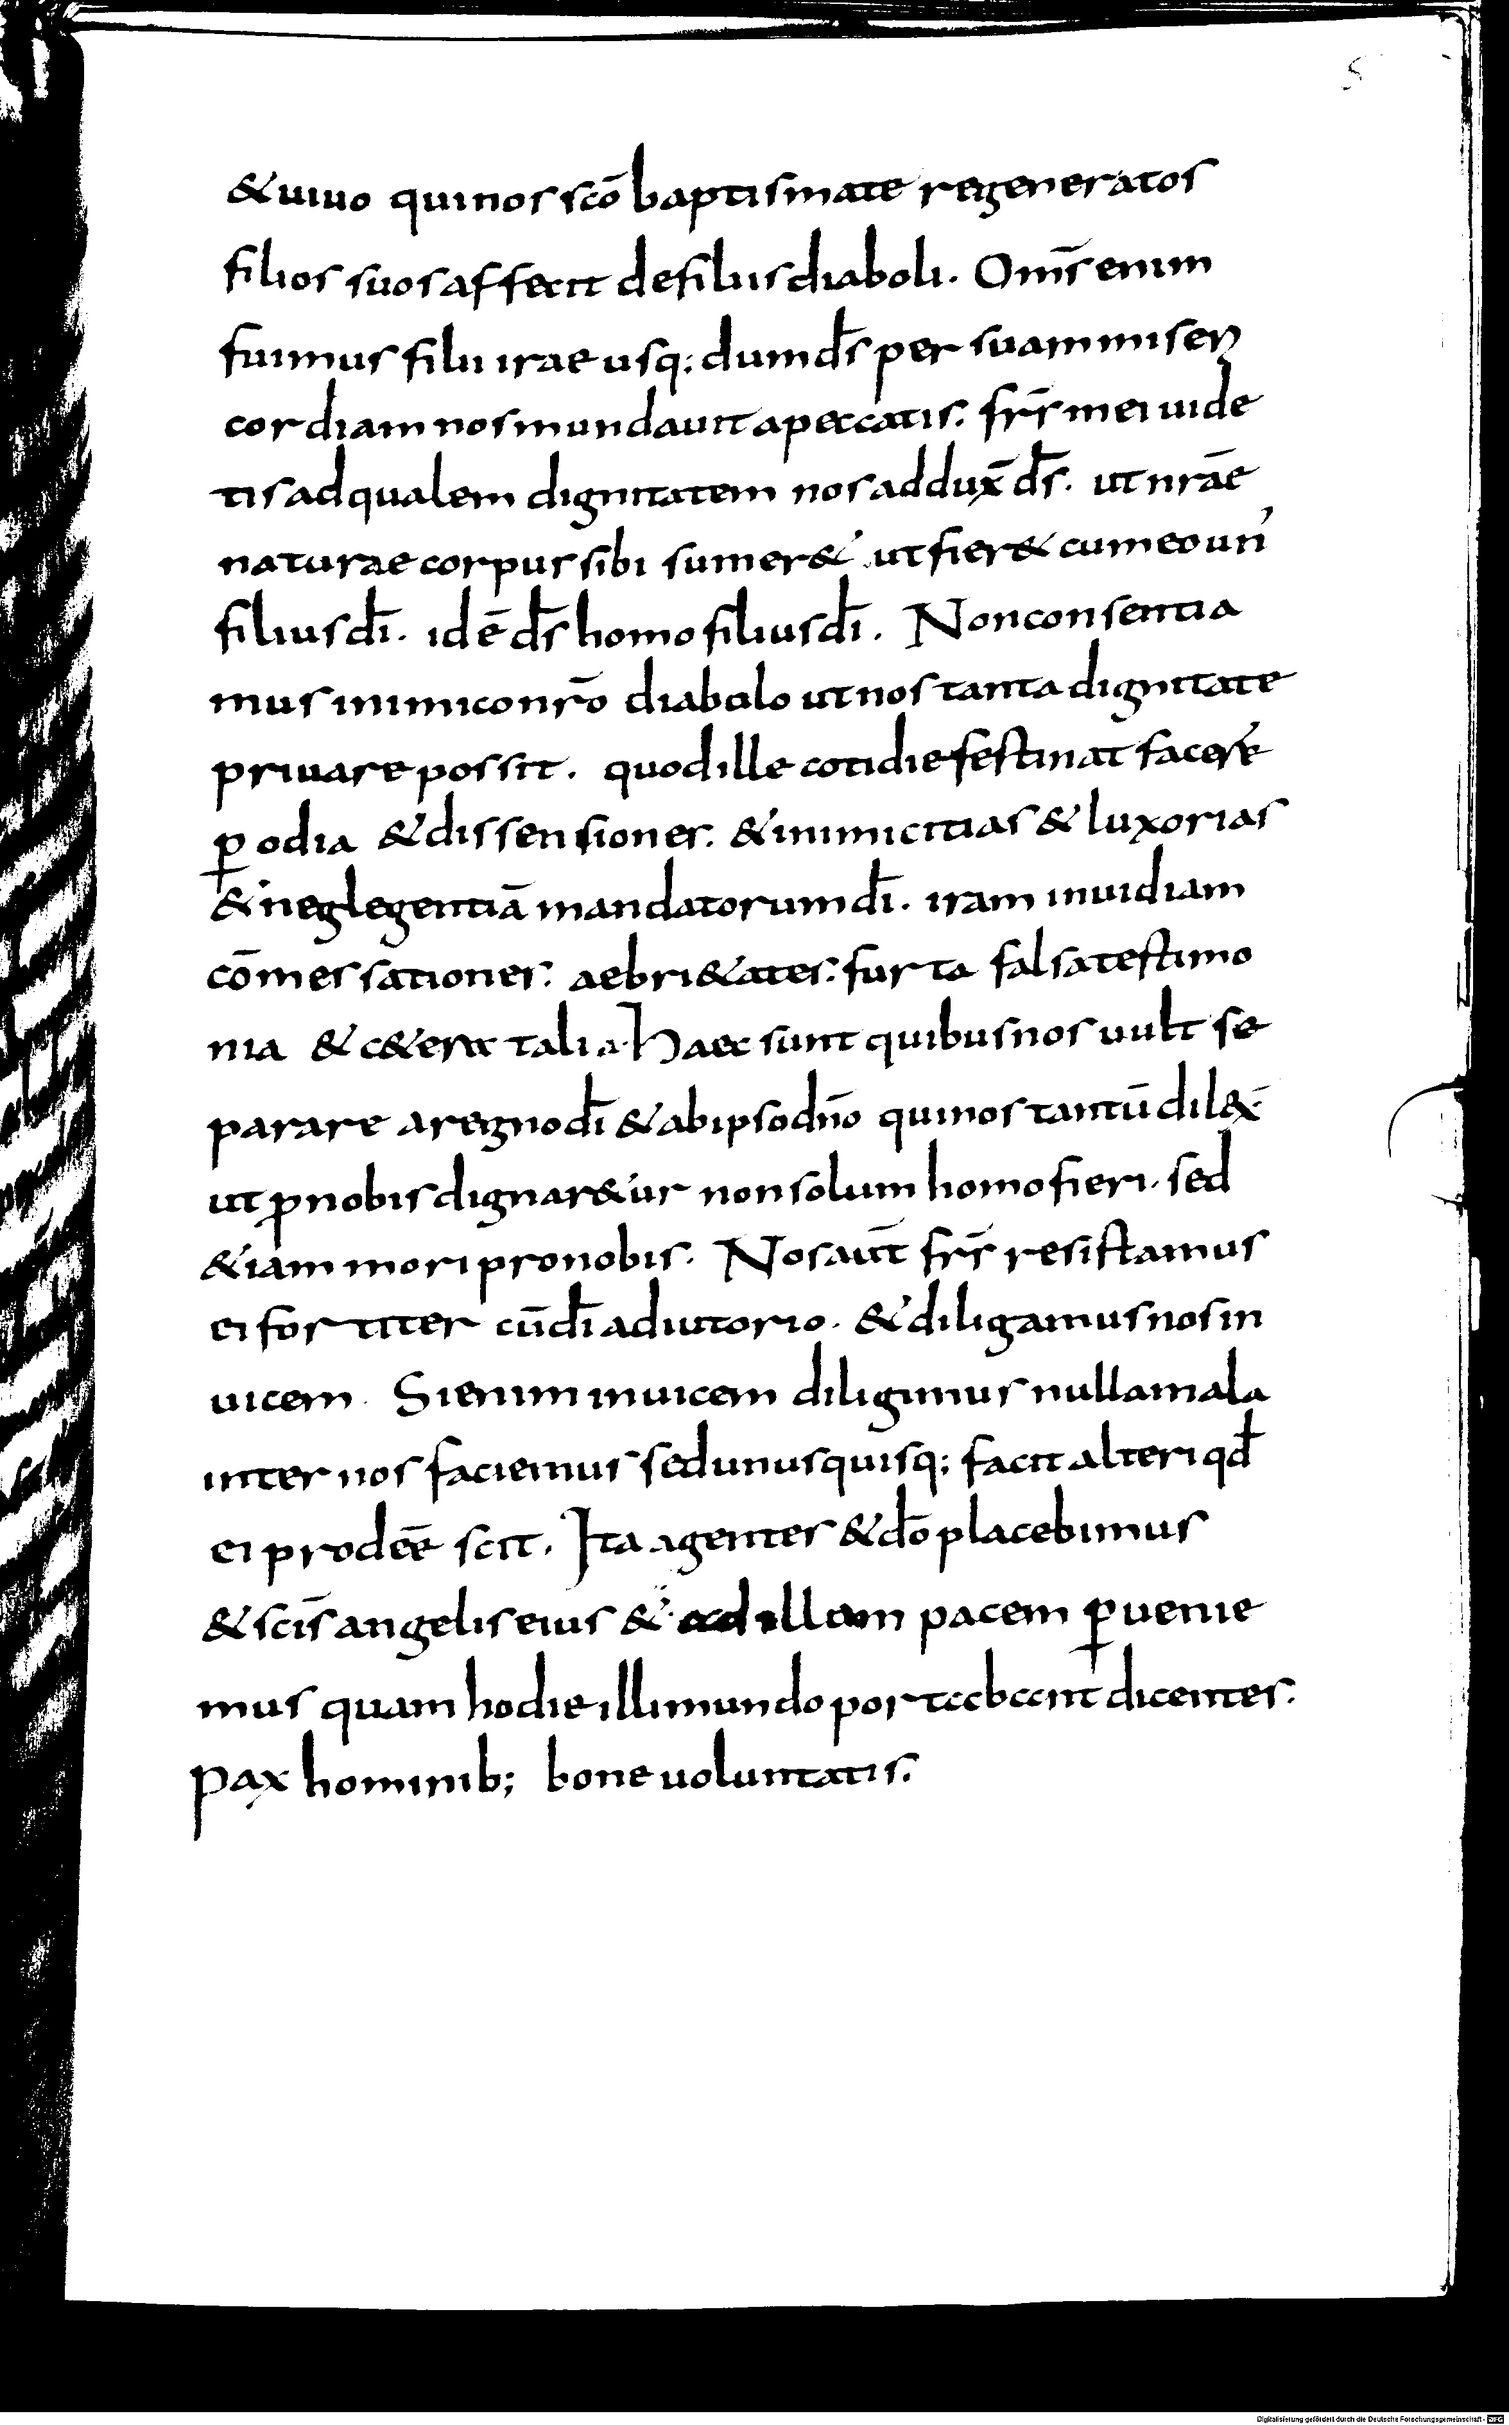
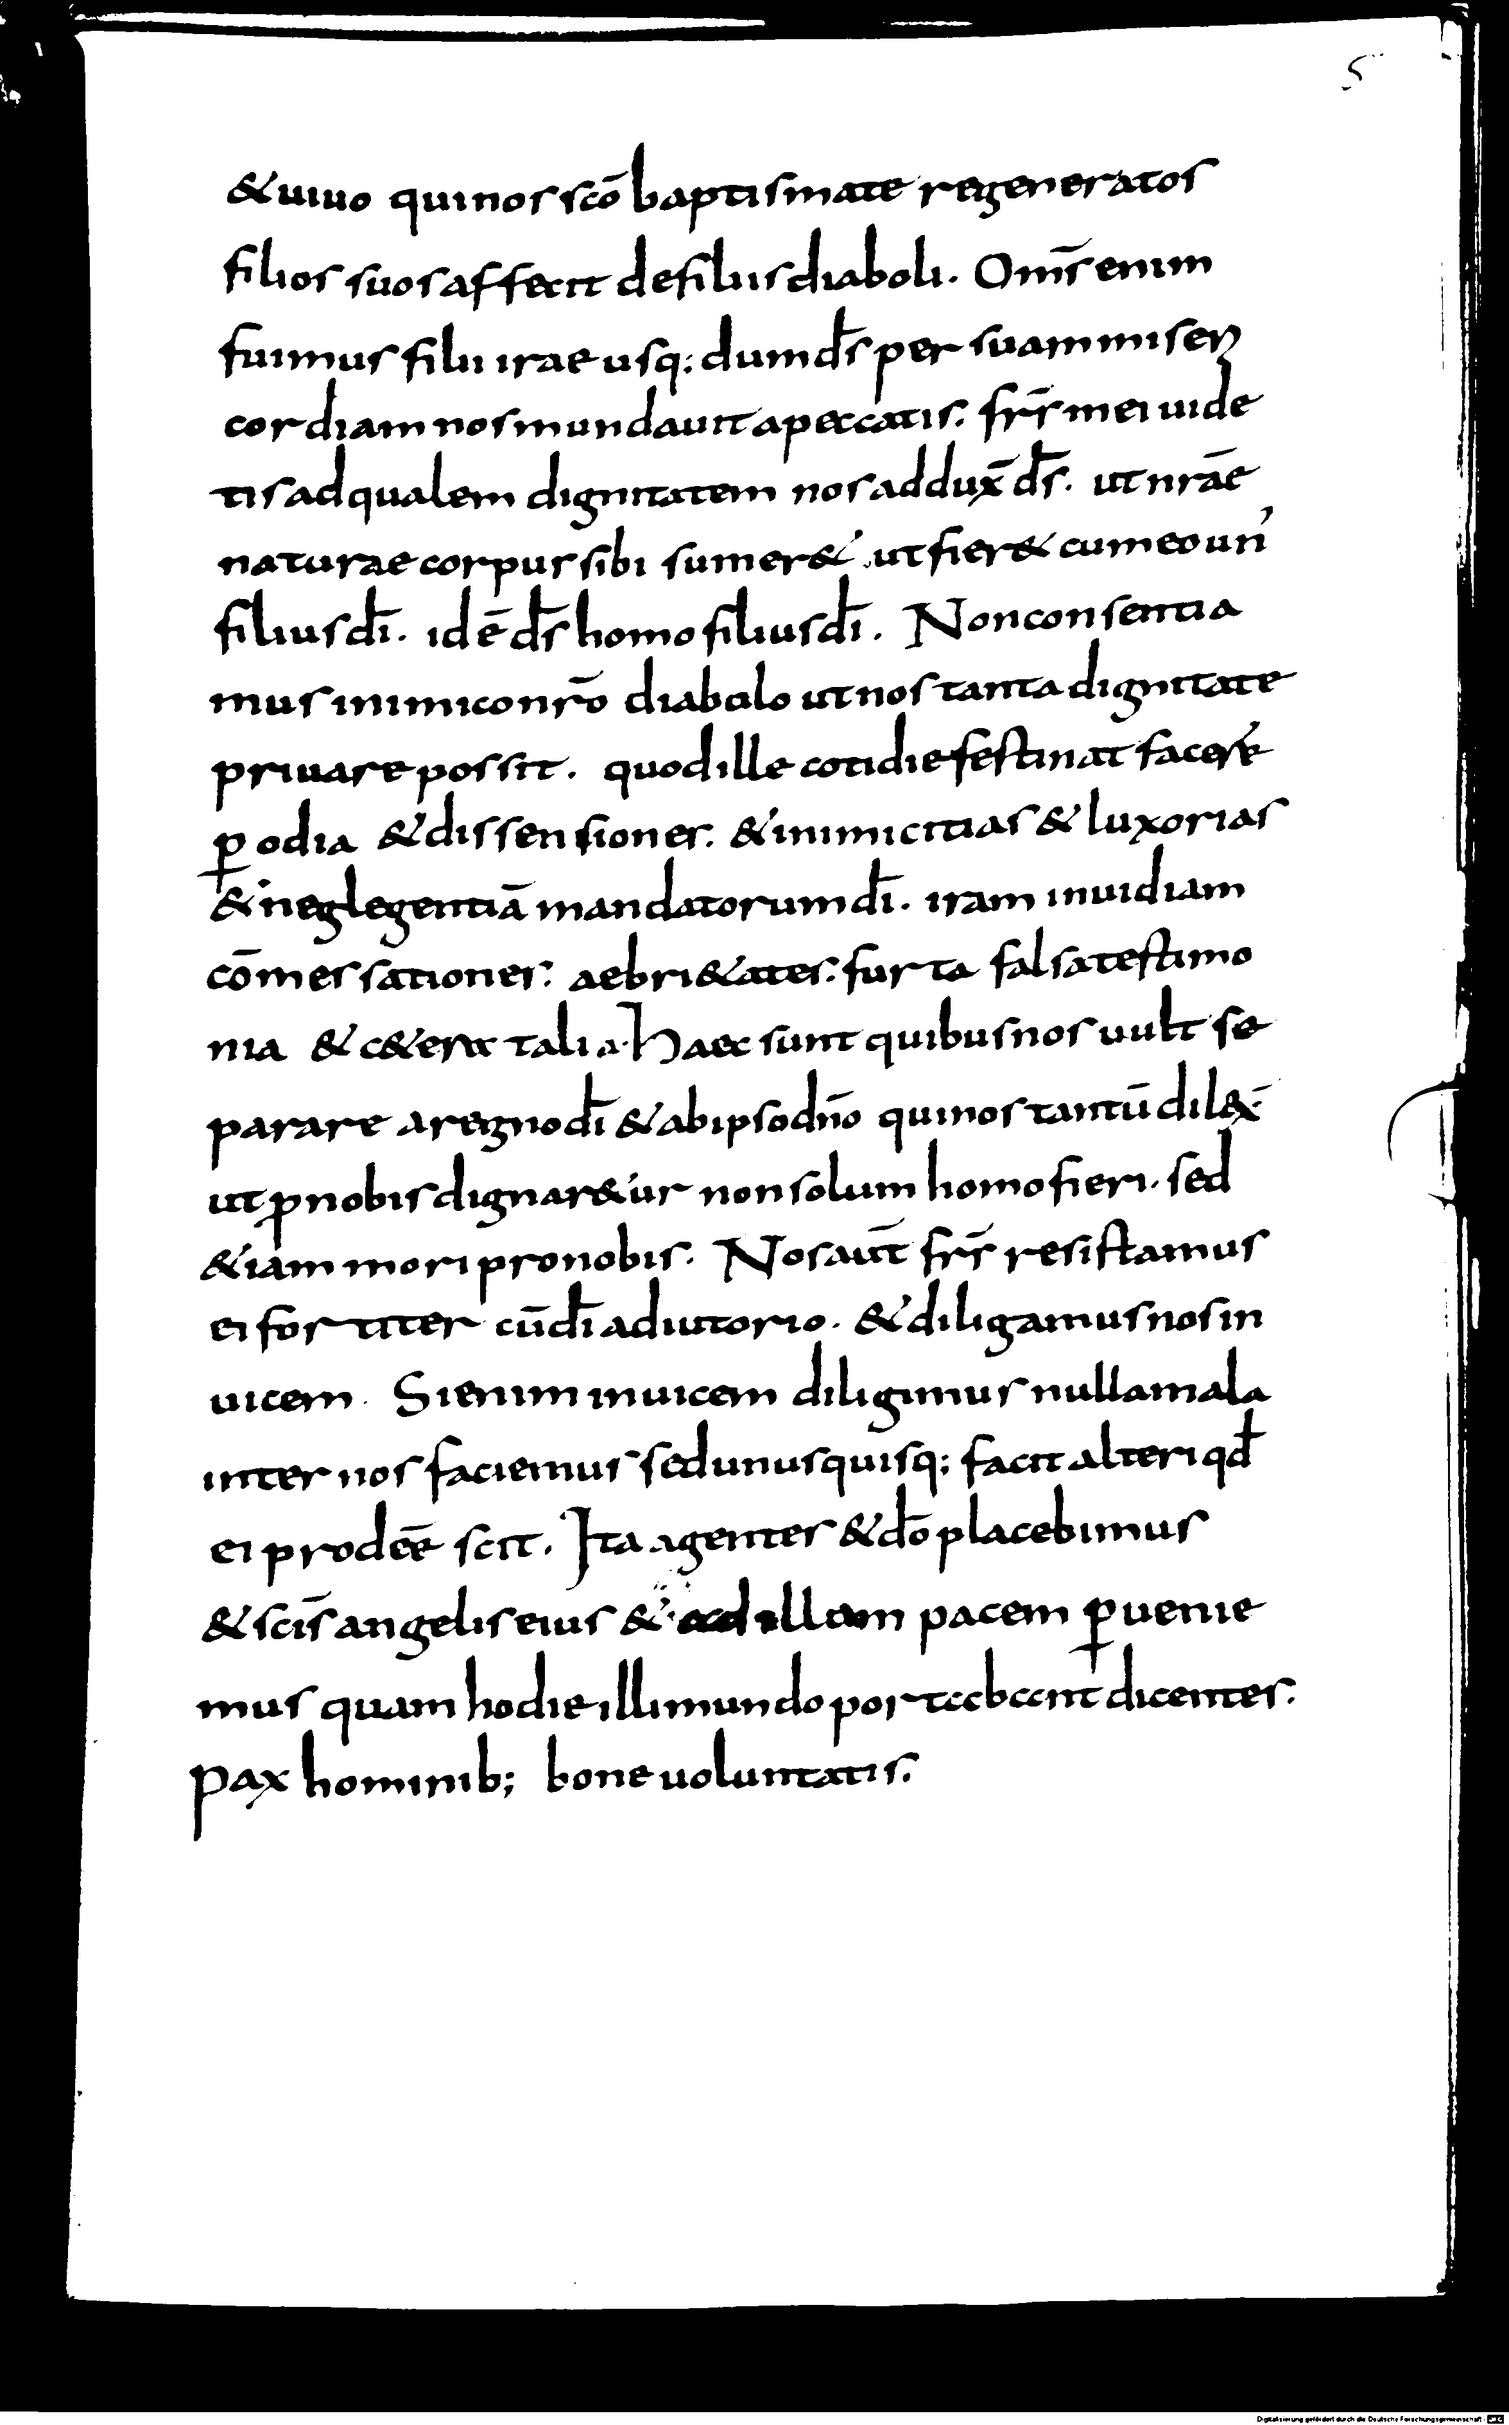
fixed called method order

diff --git a/img_preprocessing/img_processing.py b/img_preprocessing/img_processing.py
@@ -121,14 +121,19 @@ for file in filelist:
     if file.endswith(".jpg") or file.endswith(".png") or file.endswith(".jpeg"):
         # load the image
         img_path = os.path.join(path, file)
+
         # create an instance of the preprocess class
         current_img = preprocess(img_path)
+
         # load the image
         current_img.load_image()
-        # convert the image to greyscale
+
+        # apply gaussian blur (on RGB)
+        current_img.apply_gaussian_blur()
+
+        # convert to grayscale + thresholding
         grey_scaled = current_img.greyscale()
-        # TODO: Apply Gaussian blur to reduce noise
-        grey_scaled = grey_scaled.apply_gaussian_blur()
+
         # save the image
         cv2.imwrite(os.path.join(path, "gray_" + file), grey_scaled)
     else:
